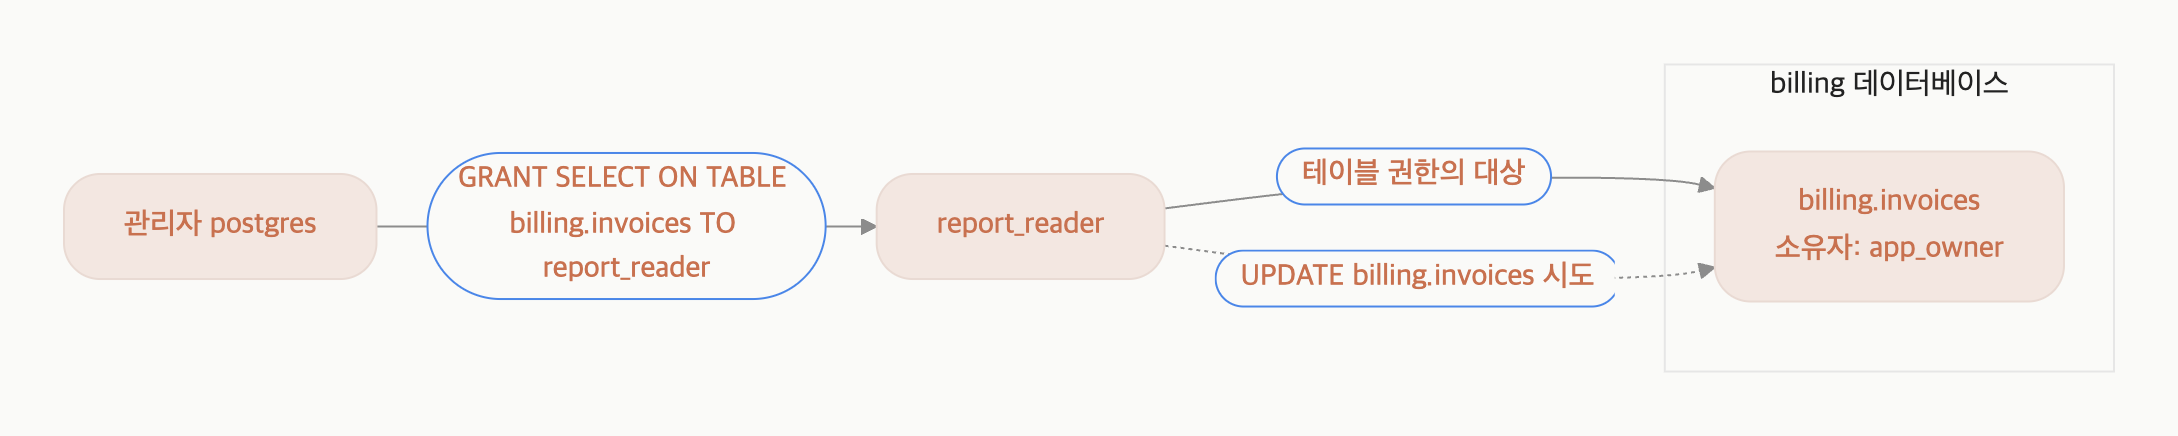
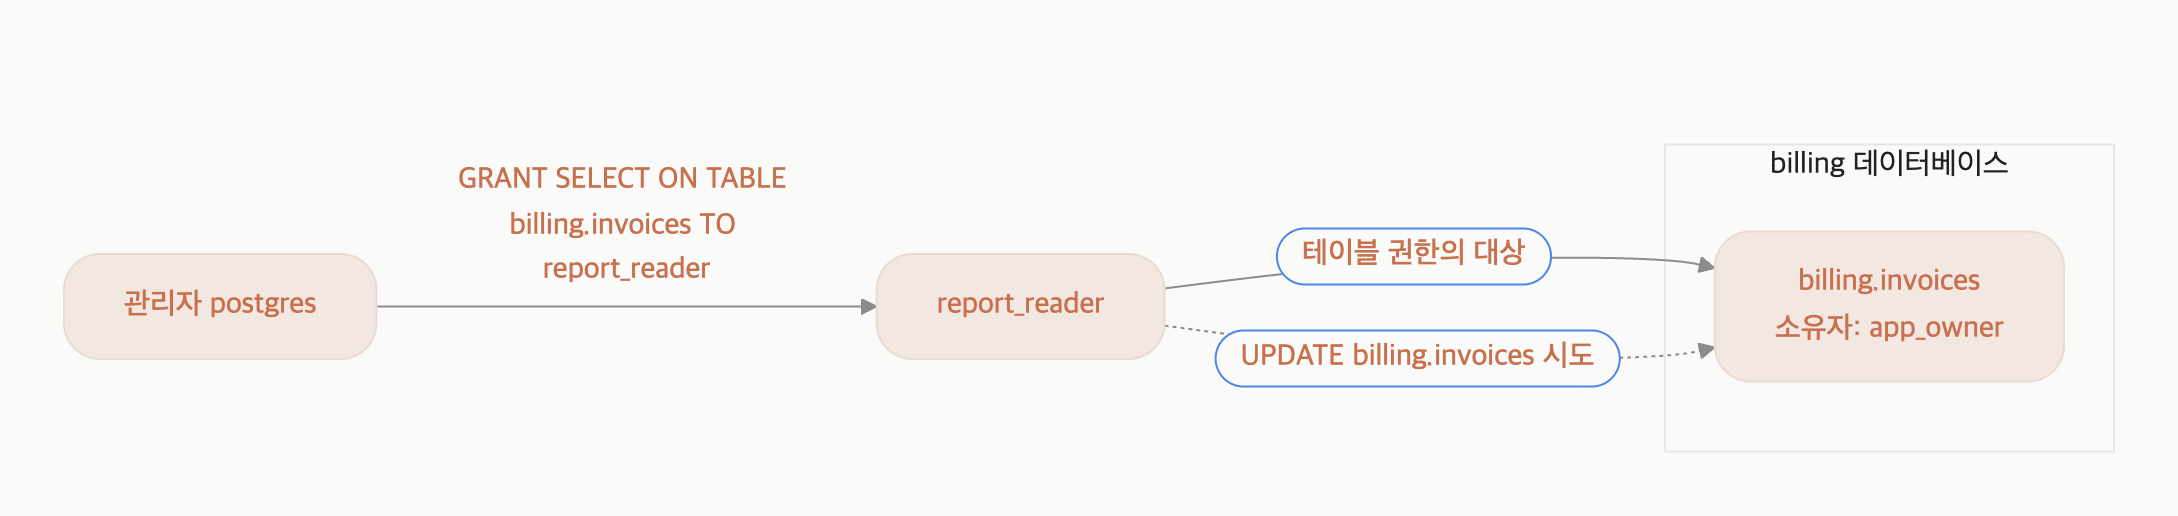
fix(akbun-draw): mermaid-database-garam GRANT SQL 라벨을 화살표 위 글씨로 표시 (#389)

diff --git a/plugins/akbun-draw/skills/akbun-draw-mermaid-database-garam/SKILL.md b/plugins/akbun-draw/skills/akbun-draw-mermaid-database-garam/SKILL.md
@@ -1,6 +1,6 @@
 ---
 name: akbun-draw-mermaid-database-garam
-description: 데이터베이스 권한 실습(GRANT·소유자·Role)을 Mermaid flowchart LR 관계도로 그리는 스타일 garam. 베이지 둥근 노드·테라코타 글자·파란 알약 테두리 화살표 라벨 테마(frontmatter CSS)를 붙이고, DB는 subgraph, 테이블 노드는 스키마.테이블과 소유자, 관리자와 권한 받는 Role은 별도 노드, GRANT 화살표에는 실제 SQL을 적고 이미 부여된 권한은 실선, 이제 검증할 SQL은 점선으로 그린다. 조회·변경 결과는 실습에서 확인하도록 그림에서 비운다. 사용자가 직접 호출할 때만 실행한다.
+description: 데이터베이스 권한 실습(GRANT·소유자·Role)을 Mermaid flowchart LR 관계도로 그리는 스타일 garam. 베이지 둥근 노드·테라코타 글자·파란 알약 테두리 화살표 라벨·화살표 위 GRANT SQL 글씨 테마(frontmatter CSS)를 붙이고, DB는 subgraph, 테이블 노드는 스키마.테이블과 소유자, 관리자와 권한 받는 Role은 별도 노드, GRANT 화살표에는 실제 SQL을 적고 이미 부여된 권한은 실선, 이제 검증할 SQL은 점선으로 그린다. 조회·변경 결과는 실습에서 확인하도록 그림에서 비운다. 사용자가 직접 호출할 때만 실행한다.
 disable-model-invocation: true
 ---
 
@@ -31,7 +31,7 @@ DB 권한 실습 글·발표에 넣을 Mermaid 관계도를 만든다. 독자가
 2. DB는 DB마다 `subgraph <id>["<DB 이름> 데이터베이스"]` 하나로 묶고, 그 DB에 속한 테이블 노드만 안에 둔다. 스키마는 subgraph로 나누지 않고 테이블 이름에 적는다. 관리자·Role 노드는 subgraph 밖에 둔다.
 3. 테이블 노드 라벨은 두 줄. 첫 줄 `스키마.테이블`, 둘째 줄 `소유자: <Role>`. 줄바꿈은 `<br/>`.
 4. 그림에 나오는 Role(GRANT를 실행하는 쪽, 권한 받는 쪽, 검증할 SQL을 실행하는 쪽)마다 노드 하나를 subgraph 밖에 둔다. 같은 Role은 역할이 겹쳐도(소유자가 직접 GRANT) 노드 하나로 쓰고, 다른 Role은 합치지 않는다. 라벨은 GRANT를 실행하는 Role만 `관리자 <Role>`, 나머지는 Role 이름만 쓴다.
-5. GRANT 화살표는 관리자 → 권한 받는 Role. 라벨은 실행한 SQL 그대로(`GRANT <권한> ON <객체 종류> <스키마.객체> TO <Role>`)이고 끝 세미콜론은 뺀다. 화살표 출발 노드가 "누가", SQL이 "어떤 권한·어느 객체·누구에게"를 말한다.
+5. GRANT 화살표는 관리자 → 권한 받는 Role. 라벨은 실행한 SQL 그대로(`GRANT <권한> ON <객체 종류> <스키마.객체> TO <Role>`)를 `<code>`로 감싸고(`-->|"<code>GRANT ...</code>"|`) 끝 세미콜론은 뺀다. 테마가 `<code>` 라벨만 테두리 없이 화살표 위 글씨로 올리고, 나머지 라벨은 알약 테두리로 둔다. 화살표 출발 노드가 "누가", SQL이 "어떤 권한·어느 객체·누구에게"를 말한다.
 6. 권한이 걸린 대상은 권한 받는 Role → 테이블 실선 화살표로 잇고 라벨은 `<객체 종류> 권한의 대상`처럼 짧게 쓴다.
 7. 선 종류는 상태를 뜻한다. 이미 부여·실행된 것은 실선 `-->`, 이제 검증할 SQL은 점선 `-.->`. 점선은 그 SQL을 실행하는 Role 노드(4번) → 대상 테이블로 긋고, 라벨은 `<도구·단계> · <SQL 동사> 시도`처럼 무엇을 시도하는지만 쓴다(예: `Flyway V3 · ALTER TABLE 시도`, `UPDATE billing.invoices 시도`).
 8. 결과는 비운다. 라벨·노드·주석 어디에도 `성공`, `실패`, `ERROR`, `permission denied`, 조회 결과 행, ✅·❌ 같은 표시를 넣지 않는다.
@@ -48,7 +48,7 @@ DB 권한 실습 글·발표에 넣을 Mermaid 관계도를 만든다. 독자가
 
 - [ ] 테마 frontmatter가 그대로 있고, 이어서 `flowchart LR`이며 DB subgraph 안에 테이블만 있다.
 - [ ] 모든 테이블 노드에 `스키마.테이블`과 `소유자:`가 있다.
-- [ ] GRANT 라벨이 실제 실행 가능한 SQL이다.
+- [ ] GRANT 라벨이 `<code>`로 감싼 실제 실행 가능한 SQL이다.
 - [ ] 이미 부여된 것은 실선, 검증할 SQL은 점선이다.
 - [ ] 결과(성공·실패·에러·조회 행)가 그림에 없다.
 - [ ] Mermaid 렌더러(예: `mmdc`, mermaid.live)에서 문법 오류 없이 그려진다.

diff --git a/knowledges/plugins/akbun-draw.md b/knowledges/plugins/akbun-draw.md
@@ -26,7 +26,7 @@ Image drawing skills by akbun — image-generation prompts and editable SVGs in 
 - Skill list and when to use each: README `## plugin 목록` → `### akbun-draw` table (source of truth)[^readme]
 - Choosing a draw skill: [docs/manual_draw.md](../../docs/manual_draw.md)
 - `akbun-draw-diagram-haru`: the model writes only a spec and `haru_prompt.py` assembles the prompt from `references/*.jsonl`; layout routing lives in `layouts.jsonl` fields, so a layout is one jsonl line plus script support only for new fields. The workflow starts from the relation the reader must see and maps it to a layout (`row`/`column`/`columns` steps, `hub`, `layers`, `split`/`stack` comparison, `loop`, `sequence` for time-ordered messages with lifelines, `wait` gaps and `spans` brackets). Missing shapes/palettes go in the work folder's `shapes.jsonl`/`palettes.jsonl` as new ids, merged at build/check. Lines, arrows and all text are ink; shade color is off by default and only appears as pale chips behind labels when the figure compares two or more roles or cases (`chip`, palette `pastel`, at least two chip colors). Arrows are straight; failures use `blocked`; `split` has titles and no divider; `stack` uses panel outlines and `same`. Rejected: accent arrows and `focus` yellow fills (text color drifted, color leaked onto shapes), faking sequences with `column`, half names in every label, hardcoded per-layout keys. Decision: ADR 0009.
-- `akbun-draw-mermaid-database-garam`: outputs Mermaid code, not an image prompt, headed by the fixed `references/theme.md` frontmatter (beige rounded nodes, terracotta text, blue pill edge labels via `themeCSS`). Line style encodes state (solid = already granted/run, dotted = SQL still to verify) and results are never drawn so readers check them in the lab.
+- `akbun-draw-mermaid-database-garam`: outputs Mermaid code, not an image prompt, headed by the fixed `references/theme.md` frontmatter (beige rounded nodes, terracotta text, blue pill edge labels via `themeCSS`; GRANT SQL labels are wrapped in `<code>` and drawn as plain text above the arrow because Mermaid labels carry no edge id). Line style encodes state (solid = already granted/run, dotted = SQL still to verify) and results are never drawn so readers check them in the lab.
 - Decisions: [0002](../decisions/0002-reference-image-is-not-pixel-target.md), [0008](../decisions/0008-explainer-svg-reduced-to-chalkboard.md)
 
 [^manifest]: akbun-draw Claude manifest

diff --git a/plugins/akbun-draw/skills/akbun-draw-mermaid-database-garam/references/theme.md b/plugins/akbun-draw/skills/akbun-draw-mermaid-database-garam/references/theme.md
@@ -1,6 +1,6 @@
 # garam 테마
 
-Mermaid 코드 맨 위에 아래 frontmatter를 한 글자도 바꾸지 않고 붙인다. 베이지 둥근 노드와 테라코타 글자, 파란 테두리 알약 모양 화살표 라벨, 옅은 회색 가는 선, 테두리만 있는 DB 상자를 만든다. 글꼴은 SIL OFL인 Pretendard와 Noto Sans KR이고, 둘 다 없으면 보는 사람 환경의 sans-serif로 그린다.
+Mermaid 코드 맨 위에 아래 frontmatter를 한 글자도 바꾸지 않고 붙인다. 베이지 둥근 노드와 테라코타 글자, 파란 테두리 알약 모양 화살표 라벨, `<code>`로 감싼 GRANT SQL은 테두리 없이 화살표 위에 얹은 글씨, 옅은 회색 가는 선, 테두리만 있는 DB 상자를 만든다. 글꼴은 SIL OFL인 Pretendard와 Noto Sans KR이고, 둘 다 없으면 보는 사람 환경의 sans-serif로 그린다.
 
 ```yaml
 ---
@@ -24,9 +24,12 @@ config:
     .edgeLabel, .edgeLabel p, .edgeLabel .labelBkg { background: transparent !important; }
     .edgeLabel span.edgeLabel { display: inline-block; background: #FAFAF8 !important; color: #C8714F !important; font-weight: 500; border: 1.5px solid #4A86E8; border-radius: 999px; padding: 2px 12px; }
     .edgeLabel foreignObject { overflow: visible; }
+    .edgeLabel .labelBkg:has(code) { transform: translateY(calc(-50% - 6px)); }
+    .edgeLabel span.edgeLabel:has(code) { border: none; background: transparent !important; padding: 0; }
+    .edgeLabel code { font-family: inherit; font-size: inherit; color: #C8714F; }
     .flowchart-link { stroke-width: 1px !important; }
     .cluster-label .nodeLabel, .cluster-label span { color: #222222 !important; font-weight: 400; }
 ---
 ```
 
-`themeCSS`는 Mermaid 11 HTML 라벨 기준이다. 렌더러가 frontmatter나 `themeCSS`를 막으면(예: GitHub) 색 없이 기본 테마로 그려질 뿐 관계도 내용은 같다. Mermaid 11.4.1에서 frontmatter의 `flowchart.curve`·간격 값은 적용되지 않아 넣지 않는다.
+`themeCSS`는 Mermaid 11 HTML 라벨 기준이다. Mermaid는 화살표 라벨에 edge id를 남기지 않아서, GRANT 라벨은 CSS가 `<code>` 태그로 골라낸다. 렌더러가 frontmatter나 `themeCSS`를 막으면(예: GitHub) 색 없이 기본 테마로 그려질 뿐 관계도 내용은 같다. Mermaid 11.4.1에서 frontmatter의 `flowchart.curve`·간격 값은 적용되지 않아 넣지 않는다.

diff --git a/knowledges/log.md b/knowledges/log.md
@@ -2,6 +2,7 @@
 
 ## 2026-11-22
 
+* **Updated**: akbun-draw-mermaid-database-garam wraps GRANT SQL labels in `<code>` so the theme draws them as plain text above the arrow (Mermaid leaves no edge id on labels); akbun-draw 1.1.13. 결정 없음: 테마 CSS 조정이고 되돌리기 쉬움.
 * **Created**: akbun-draw-mermaid-database-garam draws DB permission labs as Mermaid `flowchart LR` (DB subgraph, schema.table + owner nodes, real GRANT SQL on solid arrows, SQL to verify on dotted arrows, results left blank, fixed frontmatter theme); akbun-draw 1.1.12. 결정 없음: 새 skill 추가뿐이고 삭제로 되돌릴 수 있음.
 * **Updated**: akbun-draw-diagram-haru uses no shade color by default; label chips only when the figure compares roles or cases, and a single chip color fails the check; ADR 0009 updated; akbun-draw 1.1.11.
 * **Updated**: akbun-draw-diagram-haru starts from the relation to show and maps it to a layout, adds `sequence` (lifelines, `wait`, `spans`, edge notes), lets the work folder define shapes/palettes, and replaces accent/focus colors with ink lines plus role label chips (`pastel`); ADR 0009 rewritten; akbun-draw 1.1.10.

diff --git a/plugins/akbun-draw/skills/akbun-draw-mermaid-database-garam/references/example.md b/plugins/akbun-draw/skills/akbun-draw-mermaid-database-garam/references/example.md
@@ -10,7 +10,7 @@
 
 ```mermaid
 flowchart LR
-    Admin["관리자 postgres"] -->|"GRANT SELECT ON TABLE billing.invoices TO report_reader"| R["report_reader"]
+    Admin["관리자 postgres"] -->|"<code>GRANT SELECT ON TABLE billing.invoices TO report_reader</code>"| R["report_reader"]
     subgraph Billing["billing 데이터베이스"]
         T["billing.invoices<br/>소유자: app_owner"]
     end
